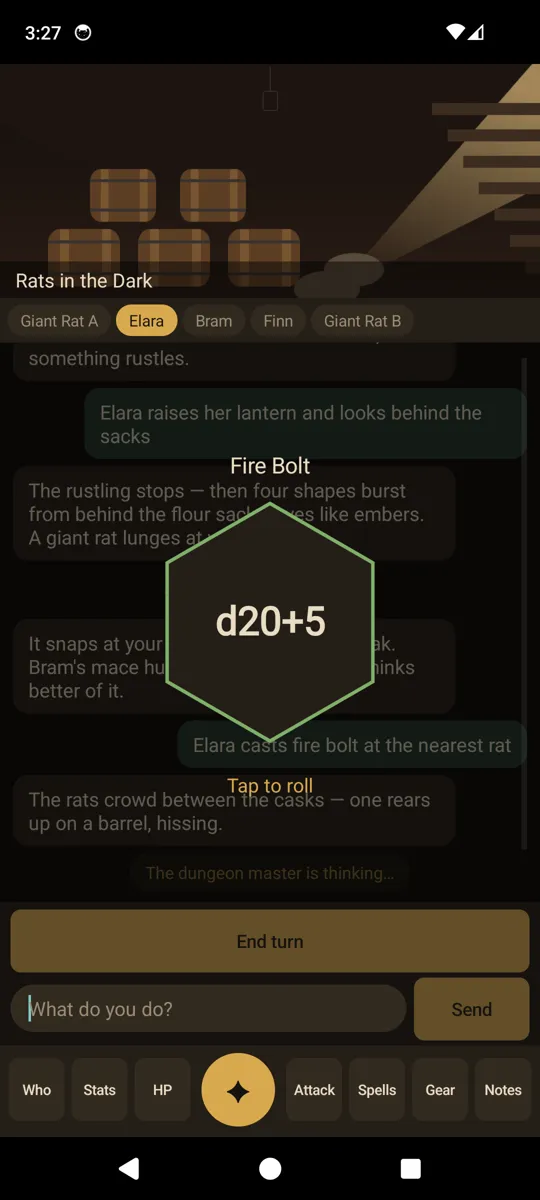
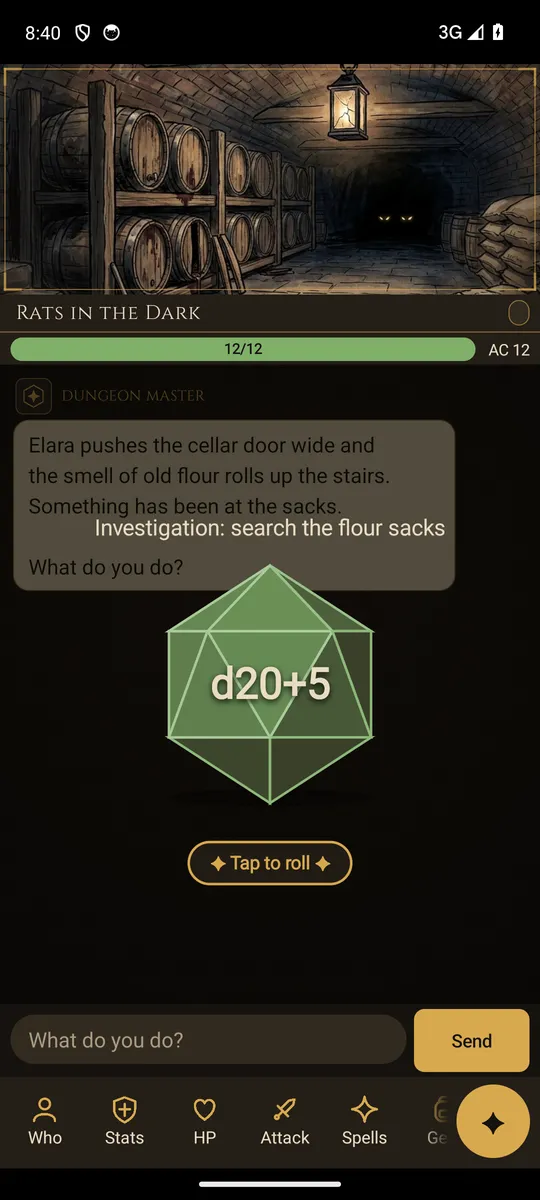
Kaartjes: nieuwe DnDAI-screenshots, Dorpsspel en Beasts & Bumpkins-remake erbij
DnDAI van de huidige build (c513716, testslots plate/roll/chips/levelup).
Dorpsspel en remake met liggende beelden uit bnb-remake/spel/screenshots;
nieuw veld `wide` toont screenshots 16:9 in kaartje en speler.

diff --git a/apps.js b/apps.js
@@ -15,6 +15,7 @@
 //   poster      stilstaand beeld dat getoond wordt voordat de video speelt
 //   screenshots lijst met afbeeldingen; zonder video worden ze als slideshow getoond
 //   color       achtergrondkleur achter de telefoonbeelden
+//   wide        true = liggende screenshots (16:9) in plaats van telefoonbeelden
 //   links       knoppen onder het kaartje: { label, url }
 
 window.APPS = [
@@ -156,6 +157,46 @@ window.APPS = [
     links: [{ label: "GitHub", url: "https://github.com/abons/beasts" }],
   },
   {
+    id: "dorpsspel",
+    name: "Dorpsspel",
+    type: "game",
+    status: "In ontwikkeling · pc en Android",
+    tagline: "Realtime dorpsspel in 3D: van een kampvuur op een eiland naar een dorp.",
+    description:
+      "Begin met een handvol dorpelingen en een kampvuur. Bouw afdaken, kippenhokken, akkers en een molen, vang vis, overleef de winter en de bliksem. Eigen ontwerp en eigen missies, gebouwd in Godot.",
+    tags: ["Strategie", "Realtime", "3D"],
+    screenshots: [
+      "media/dorpsspel/dorp.webp",
+      "media/dorpsspel/nacht.webp",
+      "media/dorpsspel/kamp.webp",
+      "media/dorpsspel/bliksem.webp",
+      "media/dorpsspel/kippen.webp",
+    ],
+    wide: true,
+    color: "#4f7a3a",
+    links: [],
+  },
+  {
+    id: "bnb-remake",
+    name: "Beasts & Bumpkins-remake",
+    type: "game",
+    status: "In ontwikkeling · pc",
+    tagline: "Een 3D-remake van Beasts and Bumpkins (1998), missie voor missie.",
+    description:
+      "De missies van het origineel opnieuw opgebouwd in Godot: dorpen, gilden, zombies, tovenaars en vijandige buren, met nieuwe 3D-modellen, dag en nacht en seizoenen.",
+    tags: ["Strategie", "Realtime", "3D"],
+    screenshots: [
+      "media/bnb-remake/dorp.webp",
+      "media/bnb-remake/kerk.webp",
+      "media/bnb-remake/nacht.webp",
+      "media/bnb-remake/toren.webp",
+      "media/bnb-remake/rivier.webp",
+    ],
+    wide: true,
+    color: "#3a6a8a",
+    links: [],
+  },
+  {
     id: "kwelder",
     name: "Kwelder",
     type: "game",
@@ -184,10 +225,10 @@ window.APPS = [
       "Kies een verhaal en een personage en speel aan een virtuele tafel. De AI vertelt, handhaaft de regels en houdt je karakterblad bij; de dobbelstenen rol je zelf in de app.",
     tags: ["RPG", "AI", "Android"],
     screenshots: [
-      "media/dndai/tafel.webp",
+      "media/dndai/beginscherm.webp",
+      "media/dndai/gevecht.webp",
       "media/dndai/dobbelsteen.webp",
       "media/dndai/suggesties.webp",
-      "media/dndai/aanval.webp",
       "media/dndai/levelup.webp",
     ],
     color: "#7b4b94",

diff --git a/script.js b/script.js
@@ -68,6 +68,7 @@
       frame.append(el("img", { src: app.poster || `https://i.ytimg.com/vi/${encodeURIComponent(app.youtube)}/hqdefault.jpg`, alt: "", loading: "lazy" }));
       button.append(frame, el("span", { className: "badge", textContent: "▶ Video" }));
     } else if (shots.length) {
+      if (app.wide) frame.classList.add("wide");
       const imgs = shots.map((src, i) => el("img", { src, alt: "", loading: "lazy", className: i === 0 ? "active" : "" }));
       frame.append(...imgs);
       const dots = shots.length > 1 ? el("span", { className: "dots" }, shots.map((_, i) => el("i", { className: i === 0 ? "on" : "" }))) : null;
@@ -176,7 +177,7 @@
     const item = items[index];
     if (playerMedia.contains(document.activeElement)) player.focus();
     playerMedia.replaceChildren();
-    playerMedia.className = "player-media " + (item.kind === "youtube" ? "wide" : "tall");
+    playerMedia.className = "player-media " + (item.kind === "youtube" || (item.kind === "image" && app.wide) ? "wide" : "tall");
     if (item.kind === "video") {
       const v = videoEl(item.src, { controls: true, autoplay: true, loop: true, playsInline: true });
       v.setAttribute("aria-label", `Demo van ${app.name}`);

diff --git a/TODO.md b/TODO.md
@@ -60,16 +60,13 @@ opgenomen in een headless browser. Ze werken, maar:
          `poster.jpg`), elk onder een paar MB. Kijk een paar frames na op bedragen.
       5. Haal dit punt weg en pas `apps.js` alleen aan als paden of velden wijzigen.
 - [ ] **Alle andere kaartjes zijn verouderd**: de screenshots en video's van Word Guesser, Woord Swiper,
-      Woord Puzzel, Fast Lane, Kwelder, Beasts, DnDAI, Kinderwoordjes en Volleybal dateren van 2026-09-30
+      Woord Puzzel, Fast Lane, Kwelder, Beasts, Kinderwoordjes en Volleybal dateren van 2026-09-30
       tot 2026-10-05 en komen niet meer overeen met de huidige apps. Alleen e-charge is op 2026-10-06
-      ververst. Maak ze opnieuw, per app, van de huidige versie.
+      ververst, DnDAI op 2026-11-22. Maak ze opnieuw, per app, van de huidige versie.
 - [ ] Optioneel: opnemen op je eigen telefoon (schermopname van Android/iOS) voor een scherper beeld.
 
 - [ ] **Volleybal**: het kaartje toont screenshots; een korte opname van de app op je telefoon (team kiezen,
       aanwezigheid doorgeven) maakt het levendiger.
-
-- [ ] **DnDAI**: de screenshots op het kaartje (`media/dndai/`) zijn dezelfde als in de publieke repo en
-      inmiddels verouderd. Vervang ze door nieuwe van de huidige versie van de app.
 
 ## 3. Welke apps horen erbij?
 
